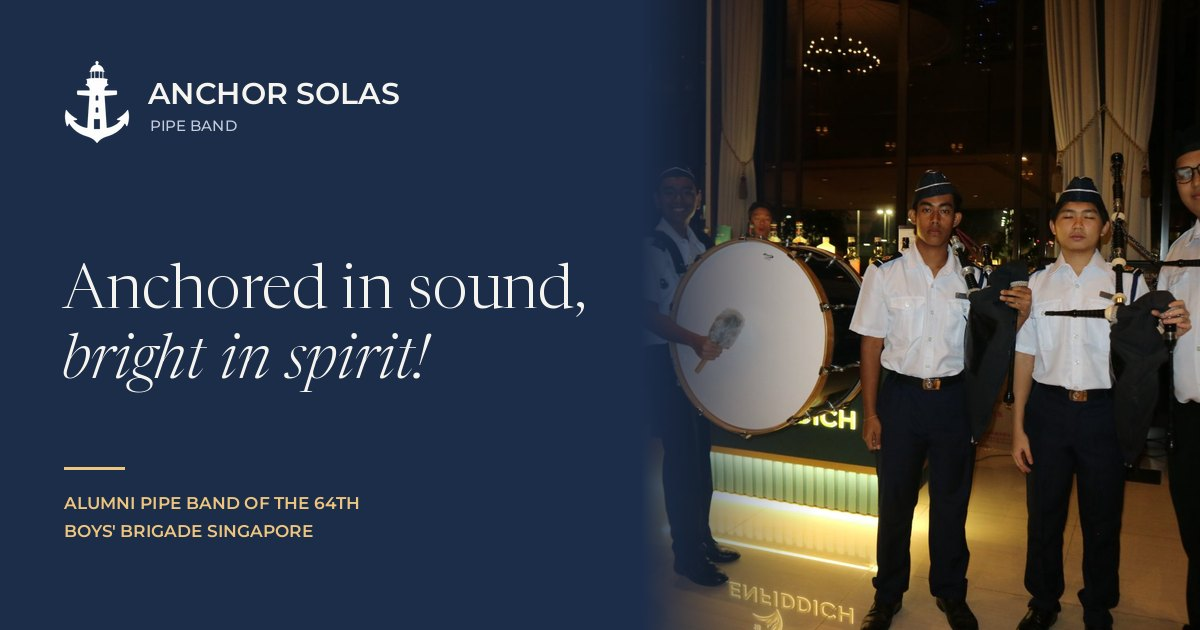
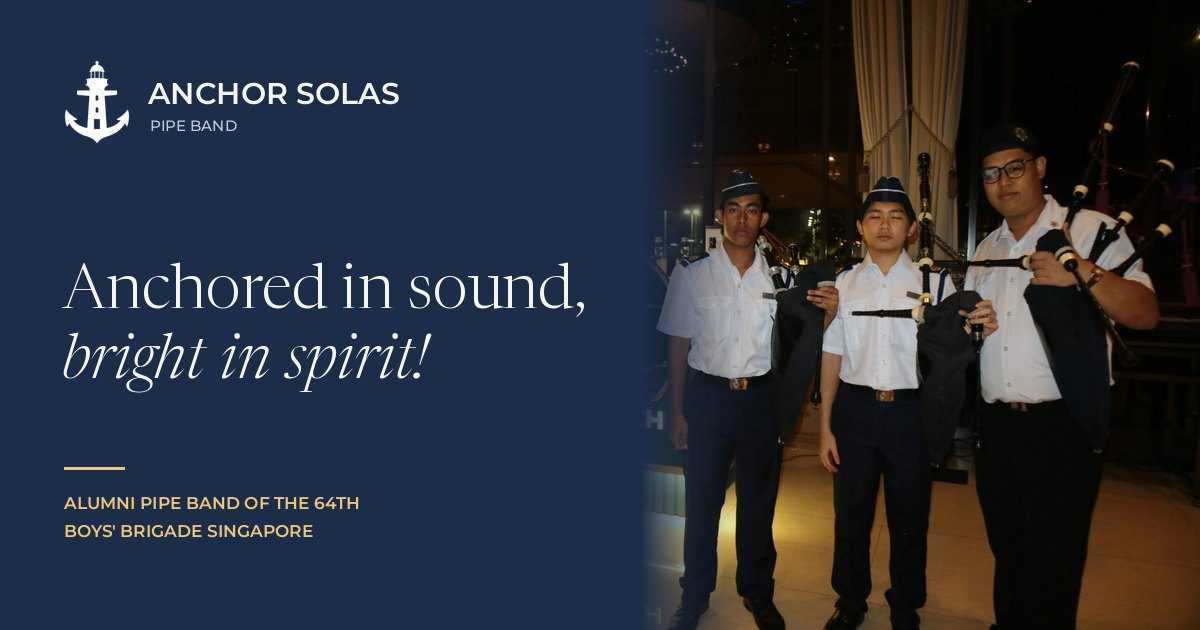
Add files via upload
v1.3.0

Changed region(s): [[0.5242, 0.0, 1.0, 1.0], [0.9558, 0.6635, 0.9867, 0.6937]]

diff --git a/assets/css/styles.css b/assets/css/styles.css
@@ -248,33 +248,39 @@ a:hover{color:var(--beacon-700)}
 @media (prefers-reduced-motion: reduce) { .aspb-link, .aspb-navlink::after { transition: none; } }
 @media (max-width: 820px) { .aspb-stack > div[style*="justify-self"] { justify-self: stretch !important; max-width: none !important; } }
 
-/* ---------- Lighthouse beam (home hero) ----------
-   Three faint beams turn slowly from the lighthouse in the header logo,
-   like a real lighthouse lamp. Solas = light. */
-.aspb-hero { position: relative; overflow: hidden; isolation: isolate; }
-.aspb-hero > .aspb-stack { position: relative; z-index: 1; }
-.aspb-beam {
-  position: absolute; z-index: 0; pointer-events: none; width: 0; height: 0;
-  left: calc(max(0px, (100% - var(--container-max)) / 2) + var(--gutter) + 16px);
-  top: -44px;
+/* ---------- Scroll anchor (left rail) ----------
+   An anchor sinks down its rope as the page scrolls. At the bottom,
+   a button offers the next page. */
+.aspb-rail { position: fixed; left: 14px; top: 104px; bottom: 28px; width: 28px; z-index: 30; pointer-events: none; }
+.aspb-rail-track, .aspb-rail-rope { position: absolute; left: 13px; top: 0; width: 2px; border-radius: 2px; }
+.aspb-rail-track { bottom: 0; background: rgba(140,135,124,.28); }
+.aspb-rail-rope { height: 0; background: repeating-linear-gradient(to bottom, var(--beacon-500) 0 5px, transparent 5px 8px); }
+.aspb-rail-anchor {
+  position: absolute; left: 0; top: 0; width: 28px; height: 28px; border-radius: 50%;
+  display: grid; place-items: center; background: var(--beacon-500); color: var(--navy-900);
+  box-shadow: 0 0 0 2px rgba(246,244,239,.9), 0 4px 10px rgba(10,27,48,.25);
+  will-change: transform;
 }
-.aspb-beam::before {
-  content: ""; position: absolute; left: -150vmax; top: -150vmax; width: 300vmax; height: 300vmax;
-  background: conic-gradient(from 0deg,
-    rgba(238,197,126,0) 0deg, rgba(238,197,126,.10) 5deg, rgba(238,197,126,.17) 10deg, rgba(238,197,126,.06) 17deg, rgba(238,197,126,0) 26deg,
-    rgba(238,197,126,0) 120deg, rgba(238,197,126,.10) 125deg, rgba(238,197,126,.17) 130deg, rgba(238,197,126,.06) 137deg, rgba(238,197,126,0) 146deg,
-    rgba(238,197,126,0) 240deg, rgba(238,197,126,.10) 245deg, rgba(238,197,126,.17) 250deg, rgba(238,197,126,.06) 257deg, rgba(238,197,126,0) 266deg,
-    rgba(238,197,126,0) 360deg);
-  -webkit-mask: radial-gradient(circle, #000 0, rgba(0,0,0,.75) 12%, transparent 42%);
-          mask: radial-gradient(circle, #000 0, rgba(0,0,0,.75) 12%, transparent 42%);
-  animation: aspb-sweep 40s linear infinite;
+.aspb-rail-anchor svg { width: 16px; height: 16px; }
+.aspb-next {
+  position: fixed; left: 52px; bottom: 24px; z-index: 31;
+  display: inline-flex; align-items: center; gap: 10px; height: 40px; padding: 0 18px;
+  border: 0; border-radius: 999px; cursor: pointer;
+  background: var(--navy-800); color: var(--paper); box-shadow: 0 0 0 1px rgba(246,244,239,.25), var(--shadow-2);
+  font: 600 11px/1 var(--font-sans); letter-spacing: .16em; text-transform: uppercase;
+  opacity: 0; transform: translateY(12px); pointer-events: none;
+  transition: opacity var(--dur-slow) var(--ease-out), transform var(--dur-slow) var(--ease-out), background var(--dur-base);
 }
-.aspb-beam::after {
-  content: ""; position: absolute; left: -90px; top: -90px; width: 180px; height: 180px; border-radius: 50%;
-  background: radial-gradient(circle, rgba(238,197,126,.18), rgba(238,197,126,0) 70%);
+.aspb-next.is-on { opacity: 1; transform: none; pointer-events: auto; }
+.aspb-next:hover { background: var(--navy-950); }
+.aspb-next span { color: var(--beacon-300); }
+@media (max-width: 640px) {
+  .aspb-rail { left: 2px; top: 112px; bottom: 20px; width: 18px; }
+  .aspb-rail-track, .aspb-rail-rope { left: 8px; }
+  .aspb-rail-anchor { width: 18px; height: 18px; box-shadow: 0 0 0 1.5px rgba(246,244,239,.9); }
+  .aspb-rail-anchor svg { width: 11px; height: 11px; }
+  .aspb-next { left: 28px; bottom: 16px; }
 }
-@keyframes aspb-sweep { from { transform: rotate(0deg); } to { transform: rotate(360deg); } }
-@media (prefers-reduced-motion: reduce) {
-  .aspb-beam::before { animation: none; transform: rotate(140deg); }
-}
-@media (max-width: 640px) { .aspb-beam { top: -68px; left: calc(var(--gutter) + 16px); } }
+@media (prefers-reduced-motion: reduce) { .aspb-next { transition: none; } }
+/* Leave room at the very bottom for the next-page button */
+.aspb-footer-bar { padding-bottom: 80px !important; }

diff --git a/assets/js/app.js b/assets/js/app.js
@@ -12,6 +12,87 @@ const fromHash = () => {
   const h = (location.hash || '').replace(/^#\/?/, '').toLowerCase();
   return PAGES.includes(h) ? h : 'home';
 };
+const NEXT = {
+  home: ['about', 'About'],
+  about: ['events', 'Events'],
+  events: ['book', 'Book Us'],
+  book: ['home', 'Home']
+};
+function ScrollAnchor({
+  page,
+  go
+}) {
+  const rail = React.useRef(null),
+    anchor = React.useRef(null),
+    rope = React.useRef(null);
+  const [atEnd, setAtEnd] = React.useState(false);
+  React.useEffect(() => {
+    let raf = 0;
+    const update = () => {
+      raf = 0;
+      const doc = document.documentElement,
+        max = doc.scrollHeight - window.innerHeight;
+      const p = max > 4 ? Math.min(1, Math.max(0, window.scrollY / max)) : 1;
+      const h = rail.current ? rail.current.clientHeight : 0,
+        a = anchor.current ? anchor.current.offsetHeight : 0;
+      const y = p * (h - a);
+      if (anchor.current) anchor.current.style.transform = 'translateY(' + y + 'px)';
+      if (rope.current) rope.current.style.height = y + a / 2 + 'px';
+      setAtEnd(max <= 4 || window.scrollY >= max - 24);
+    };
+    const req = () => {
+      if (!raf) raf = requestAnimationFrame(update);
+    };
+    window.addEventListener('scroll', req, {
+      passive: true
+    });
+    window.addEventListener('resize', req);
+    const ro = new ResizeObserver(req);
+    ro.observe(document.body);
+    update();
+    return () => {
+      window.removeEventListener('scroll', req);
+      window.removeEventListener('resize', req);
+      ro.disconnect();
+      if (raf) cancelAnimationFrame(raf);
+    };
+  }, [page]);
+  const [to, label] = NEXT[page] || NEXT.home;
+  return React.createElement(React.Fragment, null, React.createElement("div", {
+    className: "aspb-rail",
+    ref: rail,
+    "aria-hidden": "true"
+  }, React.createElement("div", {
+    className: "aspb-rail-track"
+  }), React.createElement("div", {
+    className: "aspb-rail-rope",
+    ref: rope
+  }), React.createElement("div", {
+    className: "aspb-rail-anchor",
+    ref: anchor
+  }, React.createElement("svg", {
+    viewBox: "0 0 24 24",
+    fill: "none",
+    stroke: "currentColor",
+    strokeWidth: "2.2",
+    strokeLinecap: "round",
+    strokeLinejoin: "round"
+  }, React.createElement("circle", {
+    cx: "12",
+    cy: "5",
+    r: "3"
+  }), React.createElement("path", {
+    d: "M12 22V8"
+  }), React.createElement("path", {
+    d: "M5 12H2a10 10 0 0 0 20 0h-3"
+  })))), React.createElement("button", {
+    type: "button",
+    className: 'aspb-next' + (atEnd ? ' is-on' : ''),
+    tabIndex: atEnd ? 0 : -1,
+    "aria-hidden": !atEnd,
+    onClick: () => go(to)
+  }, to === 'home' ? 'Back to' : 'Next', " ", React.createElement("span", null, label, " →")));
+}
 function App() {
   const [page, setPage] = React.useState(fromHash);
   const [t, setT] = React.useState(null);
@@ -55,6 +136,9 @@ function App() {
     go: go,
     toast: toast
   })), React.createElement(Footer, {
+    go: go
+  }), React.createElement(ScrollAnchor, {
+    page: page,
     go: go
   }), t && React.createElement("div", {
     style: {

diff --git a/assets/js/pages/home.js b/assets/js/pages/home.js
@@ -88,15 +88,11 @@
     go
   }) {
     return React.createElement(React.Fragment, null, React.createElement("section", {
-      className: "aspb-hero",
       style: {
         background: 'var(--navy-800)',
         color: 'var(--paper)'
       }
     }, React.createElement("div", {
-      className: "aspb-beam",
-      "aria-hidden": "true"
-    }), React.createElement("div", {
       className: "aspb-stack",
       style: {
         maxWidth: 'var(--container-max)',
@@ -182,8 +178,8 @@
       go: go
     }), React.createElement(Route, {
       n: "02 · EVENTS",
-      title: "Where to hear us",
-      body: "Performances, brigade events and pipe band competitions across Singapore.",
+      title: "Where we've played",
+      body: "Performances, brigade events and pipe band competitions we've been part of.",
       cta: "See events",
       to: "events",
       go: go

diff --git a/index.html b/index.html
@@ -4,7 +4,7 @@
   <meta charset="utf-8">
   <meta name="viewport" content="width=device-width, initial-scale=1">
   <title>Anchor Solas Pipe Band</title>
-  <meta name="version" content="v1.2.0">
+  <meta name="version" content="v1.3.0">
   <meta name="description" content="Anchor Solas Pipe Band, the alumni pipe band of the 64th Boys' Brigade Singapore.">
   <link rel="canonical" href="https://anchorsolaspb.github.io/">
   <meta property="og:type" content="website">

diff --git a/CHANGELOG.md b/CHANGELOG.md
@@ -1,5 +1,11 @@
 # Anchor Solas Pipe Band website: changelog
 
+## v1.3.0 (24 Sep 2026)
+- Scroll anchor: an anchor on the left edge sinks down a rope as you scroll. At the bottom of each page, a button takes you to the next page (Home, About, Events, Book Us, then back to Home).
+- Link preview image shows the three pipers and their bagpipes in full.
+- Removed the lighthouse beam from the home hero.
+- Homepage card "Where to hear us" renamed "Where we've played".
+
 ## v1.2.0 (24 Sep 2026)
 - Each page has its own link: the home page, #about, #events and #book. The browser back button now moves between pages, and links can be shared.
 - The browser tab title changes with the page.
